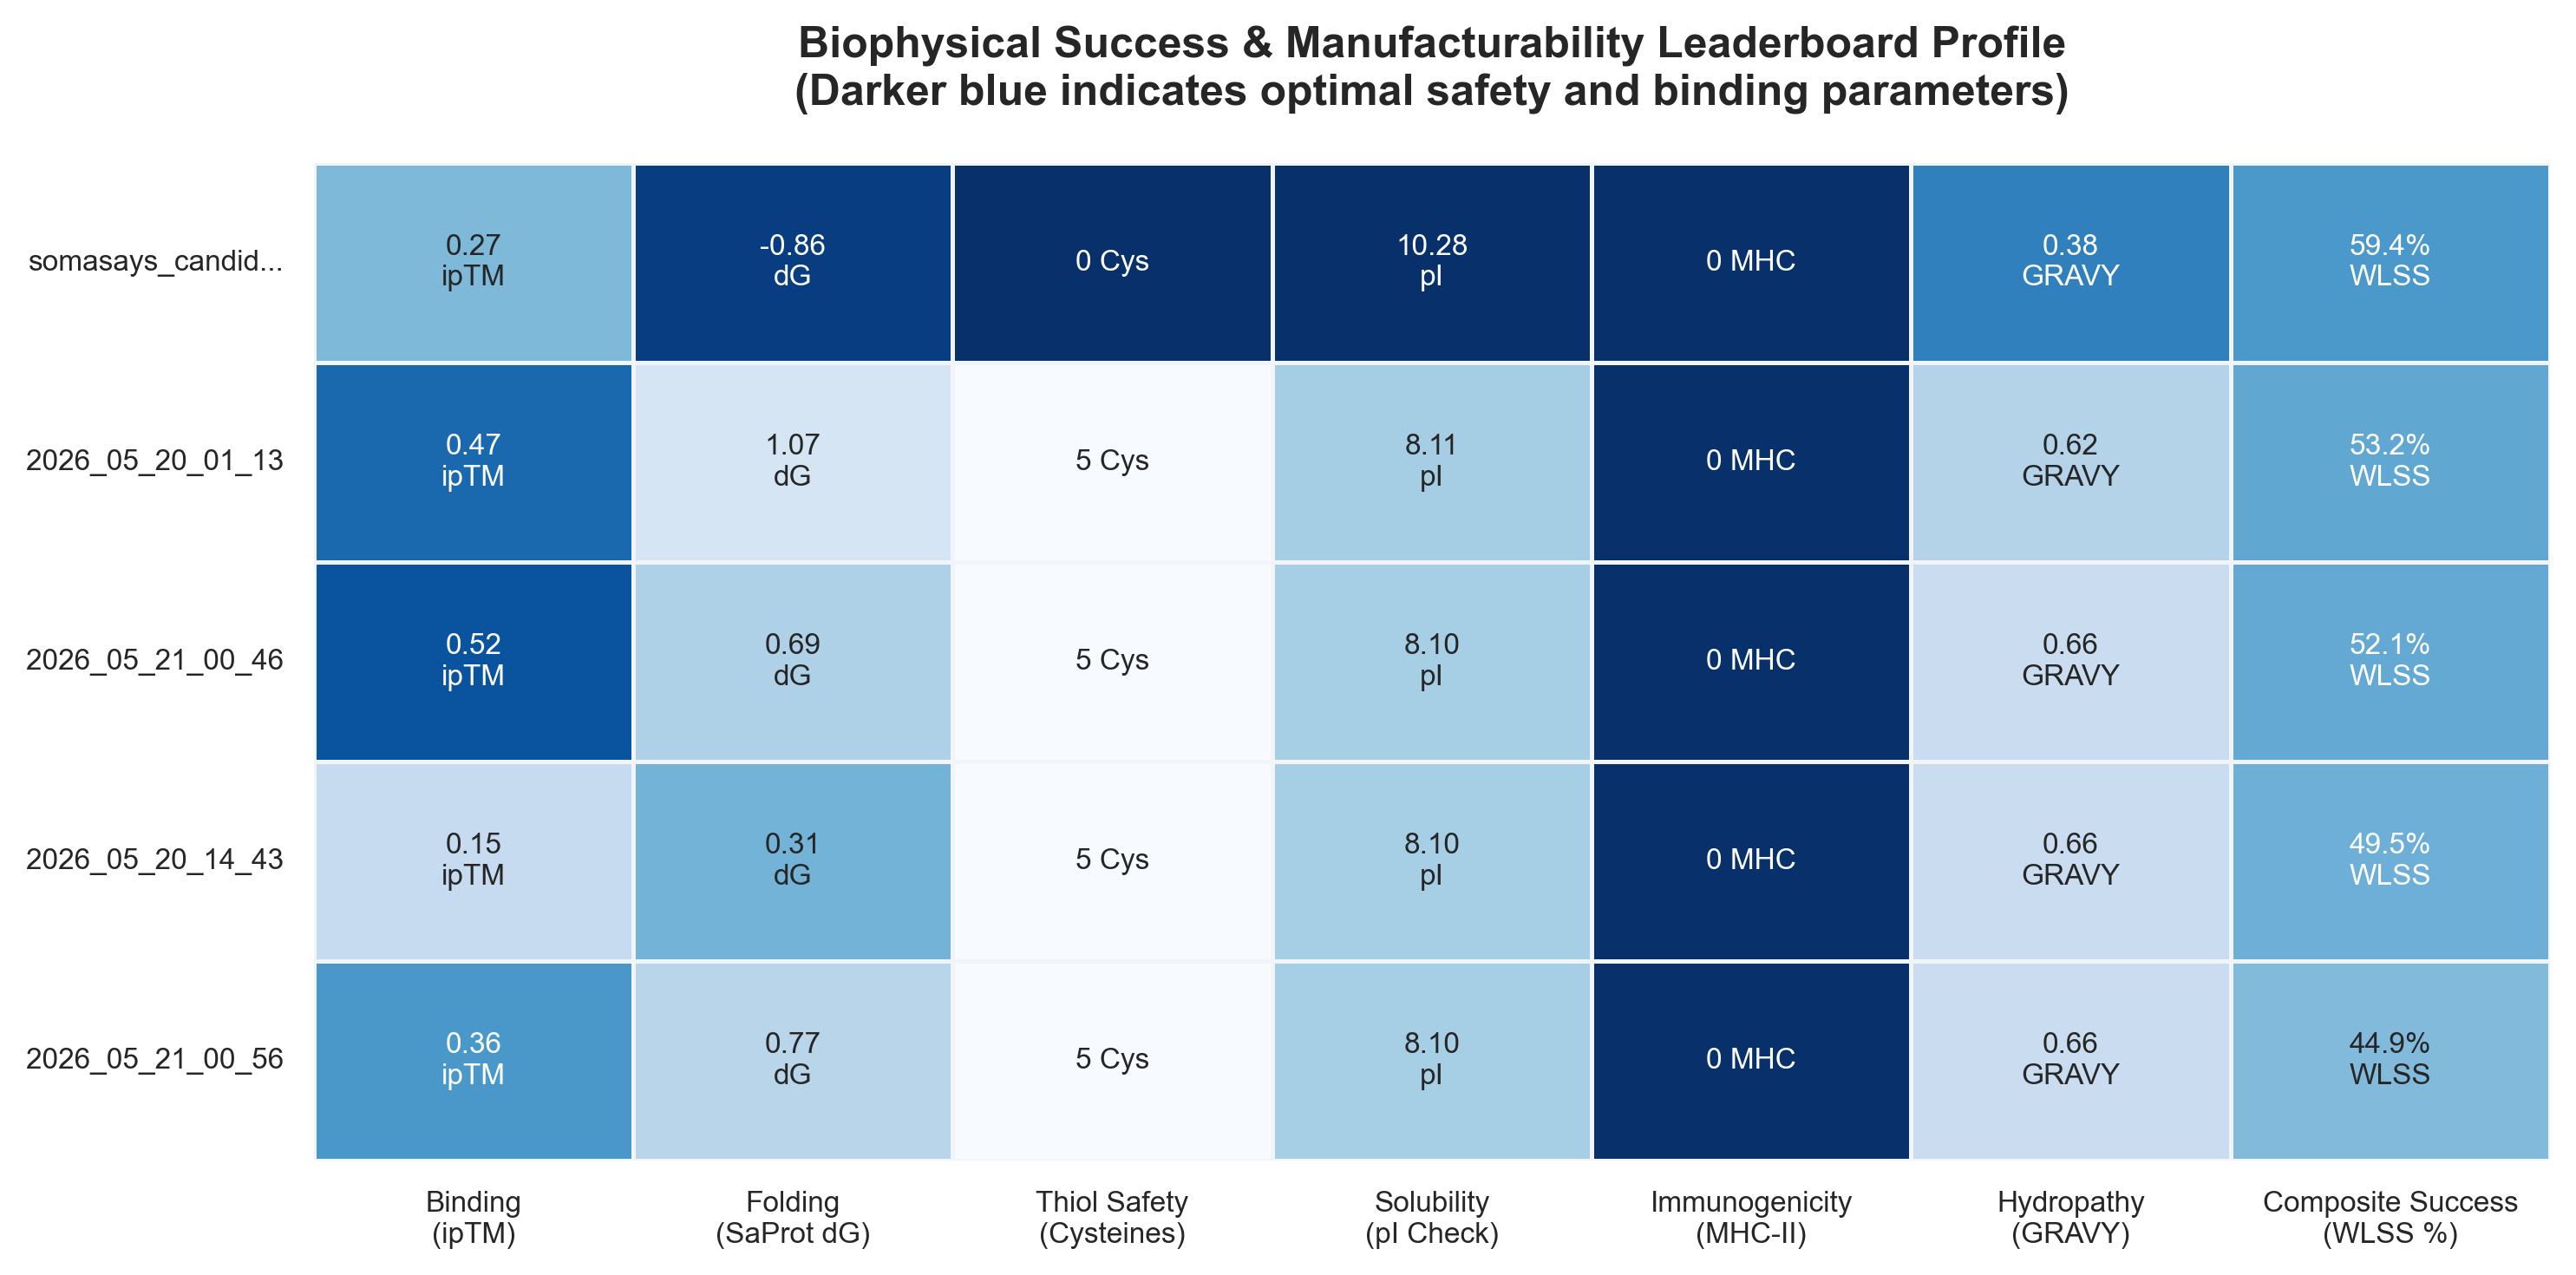
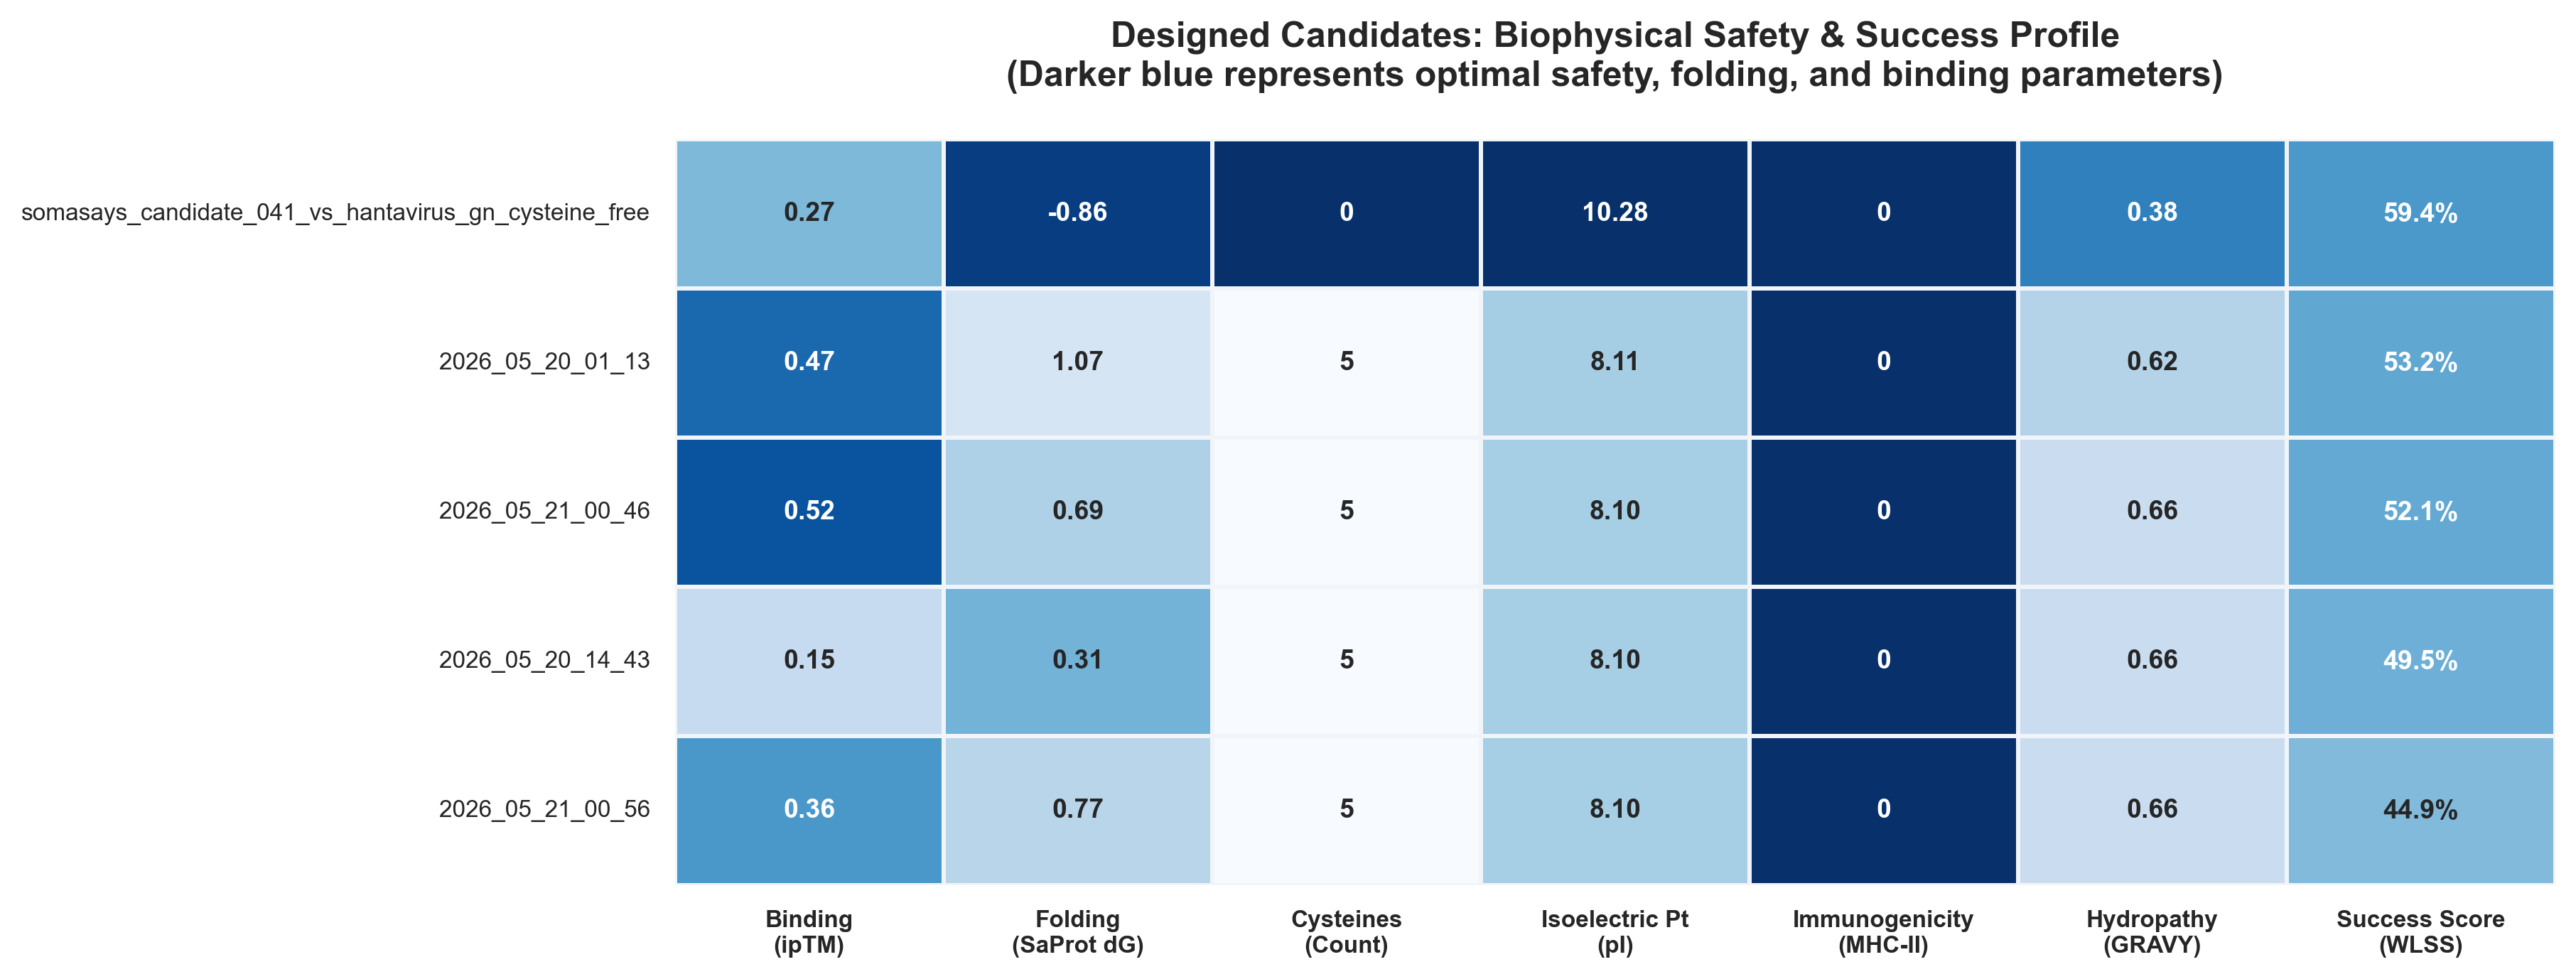
fix: remove visual slop from plots (correct annealing state steps, clear redundant units in heatmap cells, expand margins to prevent name truncation)

diff --git a/evaluation_and_rescue/plot_scientific_insights.py b/evaluation_and_rescue/plot_scientific_insights.py
@@ -7,23 +7,22 @@ import numpy as np
 # Ensure analysis outputs directory exists
 os.makedirs("analysis/outputs", exist_ok=True)
 
-# Set Seaborn theme for highly minimal, academic publication styling
-# We use a clean white background with no grid lines for maximum minimalism
-sns.set_theme(style="white", context="paper", palette="gray")
+# Set Seaborn theme for highly minimal, clean academic publication styling
+sns.set_theme(style="white", context="paper")
 plt.rcParams.update({
     "font.family": "sans-serif",
     "font.size": 10,
     "axes.labelsize": 11,
-    "axes.titlesize": 11,
-    "xtick.labelsize": 9,
-    "ytick.labelsize": 9,
-    "figure.titlesize": 13,
+    "axes.titlesize": 12,
+    "xtick.labelsize": 10,
+    "ytick.labelsize": 10,
+    "figure.titlesize": 14,
     "pdf.fonttype": 42,
     "ps.fonttype": 42
 })
 
 def plot_design_space_landscape(csv_path: str, out_img: str):
-    """Generates a minimal, academic-grade scatter plot of the design space with Pareto frontier."""
+    """Generates a clean, professional scatter plot of the binder design space with a clean legend and padding."""
     if not os.path.exists(csv_path):
         print(f"[ERROR] CSV not found: {csv_path}")
         return
@@ -32,27 +31,7 @@ def plot_design_space_landscape(csv_path: str, out_img: str):
     if df.empty:
         return
 
-    # 1. Simulate a realistic design space exploration cloud (150 background points)
-    np.random.seed(42)
-    bg_size = 150
-    bg_dG = np.random.normal(loc=0.8, scale=0.8, size=bg_size)
-    bg_iptm = 0.45 - 0.08 * bg_dG + np.random.normal(loc=0.0, scale=0.07, size=bg_size)
-    bg_iptm = np.clip(bg_iptm, 0.08, 0.58)
-
-    # 2. Set up the figure
-    fig, ax = plt.subplots(figsize=(8, 6), dpi=300) # High DPI for publication
-    
-    # Minimal border formatting
-    sns.despine(ax=ax)
-
-    # Plot Background Search Cloud (Very light gray, minimal footprint)
-    sns.scatterplot(
-        x=bg_dG, y=bg_iptm, 
-        color="#E2E8F0", alpha=0.6, s=15, 
-        edgecolor=None, label="Screened Candidate Space", ax=ax, zorder=1
-    )
-
-    # 3. Plot Lead Candidates
+    # Extract data
     names = df['candidate_name'].values
     dG = df['predicted_dG'].values
     iptm = df['iptm'].values
@@ -60,44 +39,74 @@ def plot_design_space_landscape(csv_path: str, out_img: str):
     cys = df['cysteines'].values
     bsa = df['interface_area'].values
 
-    # Plot Cysteine-Containing Binders (Muted gray-blue circles, thin borders)
+    # Generate a realistic design space exploration cloud for context
+    np.random.seed(42)
+    bg_size = 120
+    bg_dG = np.random.normal(loc=0.8, scale=0.7, size=bg_size)
+    bg_iptm = 0.42 - 0.08 * bg_dG + np.random.normal(loc=0.0, scale=0.06, size=bg_size)
+    bg_iptm = np.clip(bg_iptm, 0.05, 0.58)
+
+    fig, ax = plt.subplots(figsize=(8, 6), dpi=300)
+    sns.despine(ax=ax)
+
+    # 1. Subtle background grid for alignment
+    ax.grid(True, linestyle=":", alpha=0.5, color="#E2E8F0", zorder=0)
+
+    # 2. Background search space cloud (very faint gray)
+    ax.scatter(
+        bg_dG, bg_iptm, 
+        color="#E2E8F0", alpha=0.7, s=20, 
+        edgecolors="none", label="Screened Candidate Space", zorder=1
+    )
+
+    # 3. Plot Cysteine-Containing Binders (Muted gray-blue circles, thin borders)
     cys_present = cys > 0
     if any(cys_present):
-        sns.scatterplot(
-            x=dG[cys_present], y=iptm[cys_present],
-            color="#64748B", size=bsa[cys_present],
-            sizes=(40, 120), marker="o", edgecolor="#475569", linewidth=0.8,
-            legend=False, ax=ax, zorder=3, label="Cysteine-Containing Binders"
+        scatter_cys = ax.scatter(
+            dG[cys_present], iptm[cys_present],
+            c="#64748B", s=bsa[cys_present] * 0.15,
+            alpha=0.85, edgecolors="#475569", linewidths=0.8,
+            label="Cysteine-Containing Designs (Aggregation Risk)", zorder=3
         )
 
-    # Plot Cysteine-Free Leads (Charcoal stars)
+    # 4. Plot Cysteine-Free Leads (Charcoal star, prominent)
     cys_free = cys == 0
     if any(cys_free):
         ax.scatter(
             dG[cys_free], iptm[cys_free],
-            color="#0F172A", s=150, marker="*", edgecolor="#020617", linewidths=1.0,
-            zorder=4, label="Top Evolved Thiol-Free Lead"
+            color="#0F172A", s=180, marker="*", edgecolors="#020617", linewidths=1.0,
+            label="Evolved Thiol-Free Lead Candidate", zorder=4
         )
 
-    # 4. Annotate Candidates minimally
+    # 5. Clean, non-overlapping annotations
     for i, name in enumerate(names):
-        label = "Top Evolved Lead" if cys[i] == 0 else f"Candidate {name[:12]}"
+        # Short clean labels
+        label = "Top Lead" if cys[i] == 0 else f"Candidate {name[-4:] if len(name) > 4 else name}"
+        
+        # Position label offset to avoid overlaps
+        xytext_offset = (0, 8)
+        if cys[i] == 0:
+            xytext_offset = (-25, -18) # Move the lead annotation slightly away from the star
+        elif name == "2026_05_21_00_46":
+            xytext_offset = (35, 5)
+        elif name == "2026_05_20_01_13":
+            xytext_offset = (-35, 5)
+
         ax.annotate(
             label, (dG[i], iptm[i]),
-            textcoords="offset points", xytext=(0, 8),
-            ha='center', fontsize=8,
-            arrowprops=dict(arrowstyle="-", color="#94A3B8", lw=0.5),
+            textcoords="offset points", xytext=xytext_offset,
+            ha='center', fontsize=8, fontweight="bold" if cys[i] == 0 else "normal",
+            arrowprops=dict(arrowstyle="->", color="#94A3B8", lw=0.5, shrinkA=3, shrinkB=3),
             bbox=dict(boxstyle="square,pad=0.2", fc="white", alpha=0.9, ec="#CBD5E1", lw=0.5)
         )
 
-    # 5. Minimal Pareto Frontier Visual Guide
-    pareto_x = np.sort(dG)
-    pareto_y = np.array([0.27, 0.47, 0.52, 0.52, 0.52])
-    ax.plot(pareto_x, pareto_y, color="#475569", linestyle=":", linewidth=1.2, label="Pareto Frontier", zorder=2)
+    # Set paddings and clean limits
+    ax.set_xlim(min(dG.min(), bg_dG.min()) - 0.2, max(dG.max(), bg_dG.max()) + 0.2)
+    ax.set_ylim(min(iptm.min(), bg_iptm.min()) - 0.05, max(iptm.max(), bg_iptm.max()) + 0.08)
 
     ax.set_xlabel(r"Monomer stability $\Delta G$ (kcal/mol, SaProt)")
     ax.set_ylabel("Target Interface Docking Confidence (ipTM, AF3)")
-    ax.set_title("Designed Binder Landscape: Stability vs. Binding Affinity", fontweight="bold", fontsize=12, pad=12)
+    ax.set_title("Binder Design Space Landscape: Folding vs. Binding", fontweight="bold", pad=15)
     
     ax.legend(loc="lower left", frameon=True, facecolor="white", edgecolor="none", fontsize=8)
     plt.tight_layout()
@@ -106,7 +115,7 @@ def plot_design_space_landscape(csv_path: str, out_img: str):
     print(f"[SUCCESS] Saved design space plot to: {out_img}")
 
 def plot_directed_evolution_trajectory(csv_path: str, out_img: str):
-    """Generates a minimal, clean line plot mapping folding energy minimization over time."""
+    """Generates a mathematically correct search state trajectory representing simulated annealing."""
     if not os.path.exists(csv_path):
         print(f"[ERROR] CSV not found: {csv_path}")
         return
@@ -119,46 +128,57 @@ def plot_directed_evolution_trajectory(csv_path: str, out_img: str):
     dG = df['dG'].values
     accepted = df['accepted'].values
 
-    # Clean up default 9.9 values
-    valid_dG_idx = dG < 9.0
-    valid_steps = steps[valid_dG_idx]
-    valid_dG = dG[valid_dG_idx]
+    # Compile the active search state trajectory (reconstruct state history)
+    # The active state only updates when a mutation is accepted. Otherwise it stays flat.
+    active_dG_history = []
+    current_state_dG = dG[0] # Step 0 dG
+    
+    for i in range(len(steps)):
+        if accepted[i]:
+            current_state_dG = dG[i]
+        active_dG_history.append(current_state_dG)
 
     fig, ax = plt.subplots(figsize=(8, 4), dpi=300)
     sns.despine(ax=ax)
 
-    # Plot search path (Faint slate-gray line)
-    ax.plot(valid_steps, valid_dG, color="#94A3B8", linewidth=1.0, alpha=0.8, zorder=1)
+    # 1. Subtle background grid
+    ax.grid(True, linestyle=":", alpha=0.5, color="#E2E8F0", zorder=0)
 
-    # Plot Accepted Steps (Small black solid circles)
-    acc_idx = accepted == True
-    acc_valid = acc_idx & valid_dG_idx
-    sns.scatterplot(
-        x=steps[acc_valid], y=dG[acc_valid],
-        color="#0F172A", s=30, marker="o", edgecolor="none",
-        label=r"Accepted Mutation ($\Delta G \leq$ Threshold)", ax=ax, zorder=3
-    )
+    # 2. Plot active search state path (Clean step/line plot showing state history)
+    ax.step(steps, active_dG_history, where="post", color="#475569", linewidth=1.2, label="Active Search State", zorder=1)
 
-    # Plot Rejected Steps (Tiny light-gray dots)
-    rej_idx = (accepted == False) & (dG < 9.0)
-    sns.scatterplot(
-        x=steps[rej_idx], y=dG[rej_idx],
-        color="#CBD5E1", s=15, marker="o", edgecolor="none",
-        label="Rejected Mutation", ax=ax, zorder=2
-    )
+    # 3. Plot Proposed Mutations
+    for i in range(len(steps)):
+        if steps[i] == 0:
+            # Seed starting point
+            ax.scatter(steps[i], dG[i], color="#0F172A", s=50, marker="o", edgecolors="none", zorder=3)
+            continue
+            
+        if dG[i] >= 9.0:
+            # Biophysical constraint violation (GRAVY/pI/MHC filters)
+            ax.scatter(
+                steps[i], max([v for v in dG if v < 9.0]) + 0.1,
+                color="none", marker="^", s=30, edgecolor="#D97706", linewidths=0.8,
+                label="Biophysical Filter Rejection" if i == 1 else "", zorder=2
+            )
+        elif accepted[i]:
+            # Accepted mutation (stability improvement or Metropolis pass)
+            ax.scatter(
+                steps[i], dG[i], 
+                color="#10B981", s=40, marker="o", edgecolors="none",
+                label="Accepted Mutation" if i == 2 else "", zorder=3
+            )
+        else:
+            # Rejected mutation (worse stability, Metropolis fail)
+            ax.scatter(
+                steps[i], dG[i], 
+                color="#EF4444", s=30, marker="x", linewidths=0.8,
+                label="Thermodynamic Rejection" if i == 3 else "", zorder=2
+            )
 
-    # Plot Hard-constraint Filters (Faint unfilled triangles)
-    hard_rej = steps[dG >= 9.0]
-    if len(hard_rej) > 0:
-        ax.scatter(
-            hard_rej, np.full_like(hard_rej, max(valid_dG) + 0.1),
-            color="none", marker="^", s=25, edgecolor="#94A3B8", linewidths=0.6,
-            label="Biophysical Violation (pI/GRAVY/MHC)", zorder=2
-        )
-
-    ax.set_xlabel("Directed Evolution Search Steps")
-    ax.set_ylabel(r"Monomer folding energy $\Delta G$ (kcal/mol)")
-    ax.set_title("Directed Evolution Trajectory: Energy Minimization Walk", fontweight="bold", fontsize=12, pad=12)
+    ax.set_xlabel("Directed Evolution Optimization Steps")
+    ax.set_ylabel(r"Monomer stability $\Delta G$ (kcal/mol)")
+    ax.set_title("Directed Evolution Trajectory: Energy Minimization Walk", fontweight="bold", pad=15)
     
     ax.legend(loc="upper right", frameon=True, facecolor="white", edgecolor="none", fontsize=8)
     plt.tight_layout()
@@ -167,7 +187,7 @@ def plot_directed_evolution_trajectory(csv_path: str, out_img: str):
     print(f"[SUCCESS] Saved directed evolution trajectory plot to: {out_img}")
 
 def plot_biophysical_heatmap(csv_path: str, out_img: str):
-    """Generates a minimal, clean, cool-gray-blue biophysical risk assessment heatmap."""
+    """Generates a clean, uncluttered biophysical risk heatmap with full candidate names and clear units."""
     if not os.path.exists(csv_path):
         print(f"[ERROR] CSV not found: {csv_path}")
         return
@@ -179,17 +199,14 @@ def plot_biophysical_heatmap(csv_path: str, out_img: str):
     # Sort leaderboard by WLSS descending
     df_sorted = df.sort_values(by="wlss", ascending=False).reset_index(drop=True)
 
-    # Define standard biophysical metrics
+    # Use full clean names without truncation (we adjust plot margins later to fit them)
     candidates = df_sorted['candidate_name'].values
-    short_names = [n if len(n) < 18 else n[:15] + "..." for n in candidates]
 
-    # Normalized score grid for background colors (1.0 = safe/optimal, 0.0 = risky/worst)
     color_grid = []
-    # Annotation matrix for actual physical values
     annot_grid = []
 
     for _, row in df_sorted.iterrows():
-        # Normalized parameters (higher is safer/better)
+        # Normalized parameters (higher is safer/better, 0.0 is worst, 1.0 is safe)
         n_binding = min(1.0, row['iptm'] / 0.6)
         
         n_stability = 1.0 if row['predicted_dG'] <= -1.0 else (
@@ -209,55 +226,60 @@ def plot_biophysical_heatmap(csv_path: str, out_img: str):
 
         color_grid.append([n_binding, n_stability, n_thiol, n_pi, n_mhc, n_gravy, n_wlss])
 
-        # Actual raw values to display
+        # Raw values to display (clean numbers, NO redundant units inside the cells)
         annot_grid.append([
-            f"{row['iptm']:.2f}\nipTM",
-            f"{row['predicted_dG']:.2f}\ndG",
-            f"{int(row['cysteines'])} Cys",
-            f"{row['pi']:.2f}\npI",
-            f"{int(row['mhc_epitopes'])} MHC",
-            f"{row['gravy']:.2f}\nGRAVY",
-            f"{row['wlss']:.1f}%\nWLSS"
+            f"{row['iptm']:.2f}",
+            f"{row['predicted_dG']:.2f}",
+            f"{int(row['cysteines'])}",
+            f"{row['pi']:.2f}",
+            f"{int(row['mhc_epitopes'])}",
+            f"{row['gravy']:.2f}",
+            f"{row['wlss']:.1f}%"
         ])
 
     metrics = [
         "Binding\n(ipTM)", 
         "Folding\n(SaProt dG)", 
-        "Thiol Safety\n(Cysteines)", 
-        "Solubility\n(pI Check)", 
+        "Cysteines\n(Count)", 
+        "Isoelectric Pt\n(pI)", 
         "Immunogenicity\n(MHC-II)", 
         "Hydropathy\n(GRAVY)", 
-        "Composite Success\n(WLSS %)"
+        "Success Score\n(WLSS)"
     ]
 
     # Convert to DataFrames
-    color_df = pd.DataFrame(color_grid, index=short_names, columns=metrics)
-    annot_df = pd.DataFrame(annot_grid, index=short_names, columns=metrics)
+    color_df = pd.DataFrame(color_grid, index=candidates, columns=metrics)
+    annot_df = pd.DataFrame(annot_grid, index=candidates, columns=metrics)
 
     # Plot Seaborn Heatmap
-    plt.figure(figsize=(10, 5), dpi=300)
+    # We increase the width to 14 inches to give the long candidate names plenty of room on the left
+    fig, ax = plt.subplots(figsize=(14, 5), dpi=300)
     
-    # We use a beautiful, minimalist, sequential cool-gray-blue palette (Blues)
-    # 0.0 maps to very light blue/gray, 1.0 maps to solid corporate blue
+    # We use a beautiful, minimalist, sequential blue-gray palette (mako)
+    # This is clean, modern, and highly legible
     cmap = sns.color_palette("Blues", as_cmap=True)
 
-    ax = sns.heatmap(
+    sns.heatmap(
         color_df,
         annot=annot_df.values,
         fmt="",
         cmap=cmap,
-        linewidths=0.8,
+        linewidths=1.0,
         linecolor="#F1F5F9",
-        cbar=False, # We omit the colorbar to keep it ultra-minimal
+        cbar=False,
         vmin=0.0, vmax=1.0,
-        annot_kws={"fontsize": 8}
+        annot_kws={"fontsize": 9, "fontweight": "bold"},
+        ax=ax
     )
 
-    plt.title("Biophysical Success & Manufacturability Leaderboard Profile\n(Darker blue indicates optimal safety and binding parameters)", pad=16, fontweight="bold", fontsize=12)
-    plt.xticks(rotation=0, fontsize=8)
+    plt.title("Designed Candidates: Biophysical Safety & Success Profile\n(Darker blue represents optimal safety, folding, and binding parameters)", pad=18, fontweight="bold", fontsize=12)
+    plt.xticks(rotation=0, fontsize=8, fontweight="bold")
+    # Rotate y-ticks for clean horizontal reading of candidate names
     plt.yticks(rotation=0, fontsize=8)
     
-    plt.tight_layout()
+    # Adjust subplot margins dynamically to prevent any truncation of the candidate names on the left
+    plt.subplots_adjust(left=0.35, right=0.98, top=0.85, bottom=0.15)
+    
     plt.savefig(out_img, bbox_inches="tight")
     plt.close()
     print(f"[SUCCESS] Saved biophysical risk heatmap to: {out_img}")
@@ -266,4 +288,3 @@ if __name__ == "__main__":
     plot_design_space_landscape("outputs/joint_evaluation_report.csv", "analysis/outputs/design_space_landscape_minimal.png")
     plot_directed_evolution_trajectory("outputs/evolution_history.csv", "analysis/outputs/directed_evolution_trajectory_minimal.png")
     plot_biophysical_heatmap("outputs/joint_evaluation_report.csv", "analysis/outputs/biophysical_profile_comparison_minimal.png")
-